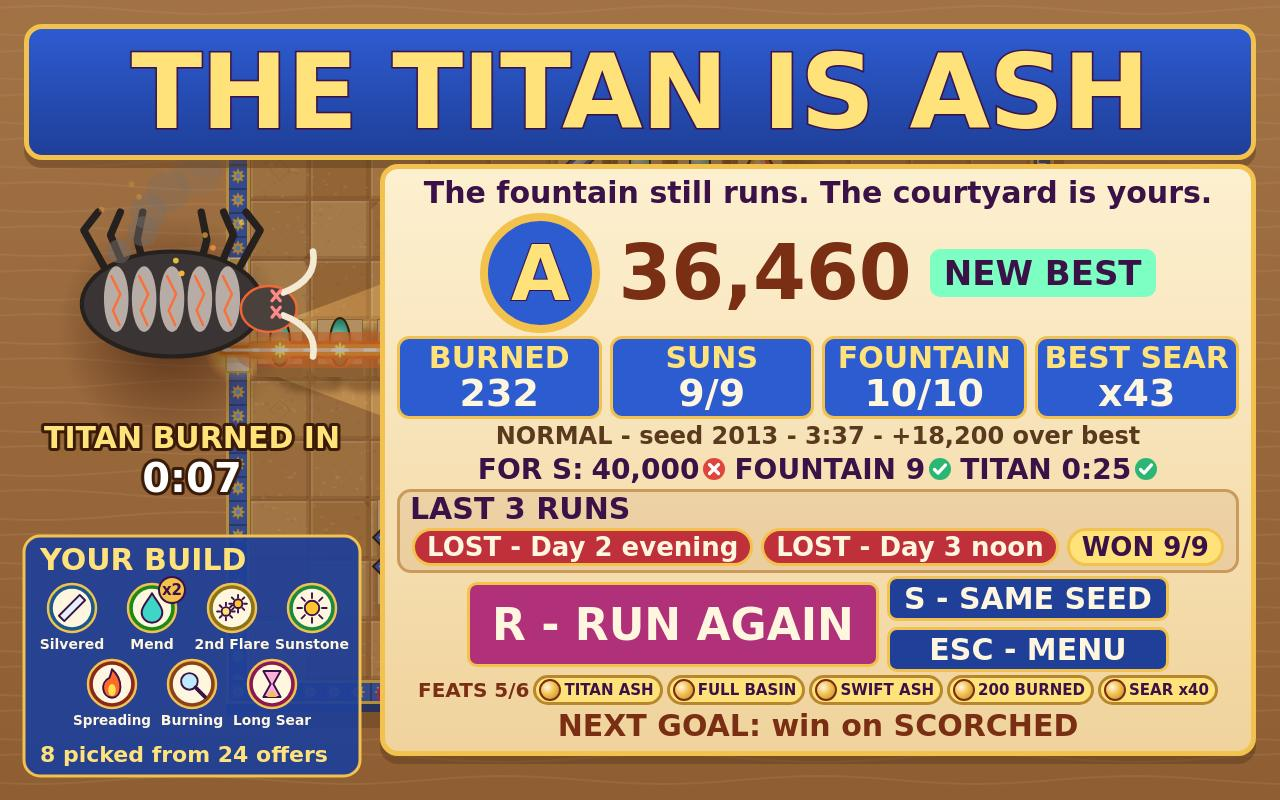
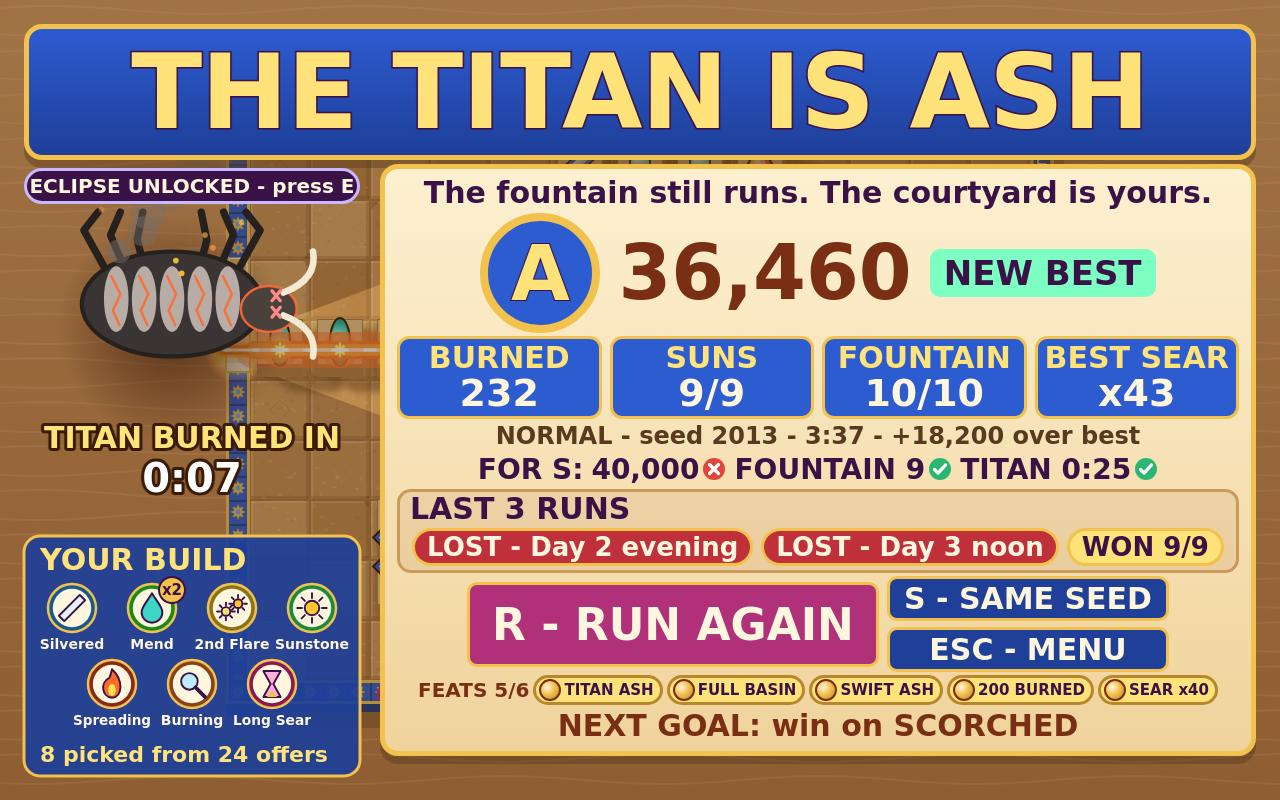
ECLIPSE endless mode: unlocked by a win, E starts it; after sun 9 the suns go on with a config formula (sun 7-9 swarms growing), best depth saved; title line and results unlock pill; truth-checked and playtested

Changed region(s): [[0.0, 0.1875, 0.2812, 0.2812]]

diff --git a/game/src/ui/menus.js b/game/src/ui/menus.js
@@ -7,7 +7,7 @@ import { sunApertureFor } from '../sun.js';
 import { waveRoster } from '../waves.js';
 import { rankFor, rankLadder, runLine } from '../combat.js';
 import { runSummary } from '../sim.js';
-import { loadFeats } from '../save.js';
+import { loadEclipse, loadFeats } from '../save.js';
 import { draftContext, draftHeal, draftHint, historyChip, nextGoal, titleRules } from '../announce.js';
 import { drawCharmGlyph } from '../render/charms.js';
 import { drawHowtoPicture } from '../render/howto.js';
@@ -63,6 +63,9 @@ export function showTitle(menus, bestFor, selected) {
   }).join('');
   el('rule-scope').textContent = SCOPE_LINE;
   el('feats-count').textContent = `FEATS ${loadFeats().length}/${FEATS.length}`;
+  const ecl = loadEclipse();
+  el('eclipse-line').textContent = !ecl.unlocked ? 'ECLIPSE (endless) - unlocked after a win' : ecl.best > 0 ? `E - ECLIPSE (endless) best: ${NAMES.sun} ${ecl.best}` : 'E - ECLIPSE (endless) unlocked - not played yet';
+  el('eclipse-line').classList.toggle('locked', !ecl.unlocked);
   const best = bestFor(selected);
   el('title-best').textContent = best.played ? `BEST ${best.score.toLocaleString('en-US')}` : 'NO BEST YET';
   // The rules table: icon, gold tag, one line per rule (announce.titleRules, numbers from config).
@@ -173,12 +176,14 @@ export function showResults(menus, run, record, history) {
   fitHeading(title, 104, 1180);
   el('results-sub').textContent = won
     ? `The ${NAMES.fountainShort.toLowerCase()} still runs. The courtyard is yours.`
-    : `Fell on Day ${run.aperture.day} ${run.aperture.phase.name.toLowerCase()} - ${run.stats.wavesCleared}/${WAVE_COUNT} ${NAMES.suns.toLowerCase()}`;
+    : run.mode === 'eclipse'
+      ? `Fell on Day ${run.aperture.day} ${run.aperture.phase.name.toLowerCase()} - ECLIPSE: ${run.stats.wavesCleared} ${NAMES.suns.toLowerCase()} held`
+      : `Fell on Day ${run.aperture.day} ${run.aperture.phase.name.toLowerCase()} - ${run.stats.wavesCleared}/${WAVE_COUNT} ${NAMES.suns.toLowerCase()}`;
   const rank = rankFor(run);
   el('results-score').innerHTML = `<span class="rank rank-${rank}">${rank}</span>${run.score.toLocaleString('en-US')}${record.isBest ? '<em>NEW BEST</em>' : ''}`;
   const tiles = [
     ['BURNED', run.stats.kills],
-    [NAMES.suns, `${run.stats.wavesCleared}/${WAVE_COUNT}`],
+    [NAMES.suns, run.mode === 'eclipse' ? `${run.stats.wavesCleared}` : `${run.stats.wavesCleared}/${WAVE_COUNT}`],
     [NAMES.fountainShort, `${run.shrineHp}/${run.shrineMax}`],
     [`BEST ${NAMES.combo}`, `x${run.chain.best}`],
   ];
@@ -198,6 +203,9 @@ export function showResults(menus, run, record, history) {
   // FEATS this run earned, as gold medals (config FEATS, tested on the finished run).
   const earned = runSummary(run).feats;
   el('results-next').textContent = nextGoal(run);
+  // A won campaign unlocks ECLIPSE (endless): say so and how to start it.
+  el('results-eclipse').textContent = won ? 'ECLIPSE UNLOCKED - press E' : '';
+  el('results-eclipse').classList.toggle('hidden', !won);
   el('results-feats').classList.toggle('many', earned.length > 4);
   el('results-feats').innerHTML = `<b>FEATS ${earned.length}/${FEATS.length}</b>` + earned.map((id) => `<span class="feat"><i></i>${escapeHtml(FEATS.find((f) => f.id === id).name)}</span>`).join('');
 }

diff --git a/game/src/main.js b/game/src/main.js
@@ -3,7 +3,7 @@
 import { DIFFICULTIES, DIFFICULTY_ORDER, DT, PIECES, PIECE_ORDER } from './config.js';
 import { createRun, pieceCost, pieceUnlocked, runSummary, stepSim } from './sim.js';
 import { playSfx, playSizzle, setBeamHum, setVolume, unlockAudio, updateMusic } from './audio.js';
-import { loadBest, loadHistory, loadSettings, recordRun, saveSettings } from './save.js';
+import { loadBest, loadEclipse, loadHistory, loadSettings, recordRun, saveSettings } from './save.js';
 import { drawFrame } from './render/scene.js';
 import { createFx, fxFromEvent, updateFx } from './render/fx.js';
 import { hotbarHit, hudButtonHit } from './render/hud.js';
@@ -57,8 +57,10 @@ function fitStage() {
   ctx.setTransform(canvas.width / VIEW_W, 0, 0, canvas.height / VIEW_H, 0, 0);
 }
 
-function startRun(seed = freshSeed(), difficulty = app.settings.difficulty) {
-  app.run = createRun(seed, difficulty);
+/** mode 'eclipse' starts the endless run (only once a win has unlocked it). */
+function startRun(seed = freshSeed(), difficulty = app.settings.difficulty, mode = 'campaign') {
+  if (mode === 'eclipse' && !loadEclipse().unlocked) return;
+  app.run = createRun(seed, difficulty, mode);
   app.screen = 'play';
   app.paused = false;
   app.fx = createFx();
@@ -146,8 +148,9 @@ function handleUiAction(action, arg) {
     case 'menu': goTitle(); break;
     case 'pick': order({ type: 'pick', index: Number(arg) }); break;
     case 'reroll': order({ type: 'reroll' }); break;
-    case 'runAgain': startRun(undefined, run?.difficultyId); break;
-    case 'sameSeed': startRun(run.seed, run.difficultyId); break;
+    case 'runAgain': startRun(undefined, run?.difficultyId, run?.mode); break;
+    case 'sameSeed': startRun(run.seed, run.difficultyId, run.mode); break;
+    case 'eclipse': startRun(undefined, run?.difficultyId ?? app.settings.difficulty, 'eclipse'); break;
     default: break;
   }
 }
@@ -170,6 +173,7 @@ function handleKeyInPlay(code) {
   if (over) {
     if (code === 'KeyR') restartRun(input.intents, false);
     else if (code === 'KeyS') restartRun(input.intents, true);
+    else if (code === 'KeyE') startRun(undefined, app.run.difficultyId, 'eclipse');
     return;
   }
   if (code === 'KeyR') {
@@ -232,6 +236,7 @@ function handleIntent(it) {
   } else if (it.kind === 'key') {
     // Title: ENTER (or SPACE) starts the selected difficulty; the arrows move the selection.
     if (it.code === 'Enter' || it.code === 'NumpadEnter' || it.code === 'Space') startRun();
+    else if (it.code === 'KeyE' && app.screen === 'title') startRun(undefined, app.settings.difficulty, 'eclipse');
     else if ((it.code === 'ArrowUp' || it.code === 'ArrowDown') && app.screen === 'title') {
       const i = DIFFICULTY_ORDER.indexOf(app.settings.difficulty);
       const step = it.code === 'ArrowDown' ? 1 : DIFFICULTY_ORDER.length - 1;

diff --git a/game/src/sim.js b/game/src/sim.js
@@ -13,13 +13,15 @@ import { buildFlowField } from './pathing.js';
 import { createGrid, pieceAt, placementCheck, setPiece } from './grid.js';
 import { createRng } from './rng.js';
 
-export function createRun(seed, difficultyId = 'normal') {
+/** mode: 'campaign' (win by holding 9 suns) or 'eclipse' (endless: the suns go on until the fountain runs dry). */
+export function createRun(seed, difficultyId = 'normal', mode = 'campaign') {
   const diff = DIFFICULTIES[difficultyId];
   const grid = createGrid();
   const run = {
     seed,
     difficultyId,
     diff,
+    mode,
     rng: createRng(seed ^ 0x5eed),
     tick: 0,
     time: 0,
@@ -198,7 +200,7 @@ function finishWave(run) {
   run.chain.count = 0;
   run.chain.timer = 0;
   emit(run, { type: 'waveClear', wave: run.waveIndex, bonus });
-  if (run.waveIndex === WAVE_COUNT - 1) {
+  if (run.waveIndex === WAVE_COUNT - 1 && run.mode !== 'eclipse') {
     endRun(run, 'won');
     return;
   }
@@ -221,7 +223,7 @@ function stepWave(run) {
   run.waveTime += DT;
   while (run.spawnCursor < run.schedule.length && run.schedule[run.spawnCursor].t <= run.waveTime) {
     const s = run.schedule[run.spawnCursor++];
-    spawnEnemy(run, s.type, s.gate);
+    spawnEnemy(run, s.type, s.gate, s.hpMul);
     if (s.type === 'titan') emit(run, { type: 'boss' });
   }
   moveEnemies(run, DT);
@@ -247,7 +249,7 @@ export function stepSim(run, orders) {
 /** What the save keeps of a finished run (also shown in the results' RUN HISTORY). */
 export function runSummary(run) {
   const feats = FEATS.filter((f) => f.test(run)).map((f) => f.id);
-  return { difficultyId: run.difficultyId, outcome: run.phase, score: run.score, suns: run.stats.wavesCleared, day: run.aperture.day, phase: run.aperture.phase.name, feats };
+  return { difficultyId: run.difficultyId, mode: run.mode, outcome: run.phase, score: run.score, suns: run.stats.wavesCleared, day: run.aperture.day, phase: run.aperture.phase.name, feats };
 }
 
 /** Waves still to spawn plus beetles on the board, for the HUD's remaining bar. */

diff --git a/game/src/waves.js b/game/src/waves.js
@@ -1,14 +1,24 @@
 // Wave makeup: turn the WAVES table into a timed spawn list for one wave and difficulty,
 // plus the roster shown in the INCOMING panel and the draft's next-wave preview.
-import { ENEMY_ORDER, WAVES } from './config.js';
+import { ECLIPSE, ENEMY_ORDER, WAVES } from './config.js';
 
-/** Sorted spawns [{ t, type, gate }] for a wave (0-based). */
+/** The wave table for a sun: the campaign's, or past sun 9 (ECLIPSE) a grown copy of sun 7, 8 or 9 (no Titan). */
+export function waveGroups(waveIndex) {
+  if (waveIndex < WAVES.length) return { groups: WAVES[waveIndex], hpMul: 1 };
+  const depth = waveIndex + 1 - WAVES.length;
+  const base = WAVES[ECLIPSE.rosters[(depth - 1) % ECLIPSE.rosters.length]].filter((g) => g[0] !== 'titan');
+  const grow = 1 + ECLIPSE.countGrowth * depth;
+  return { groups: base.map(([type, count, ...rest]) => [type, Math.round(count * grow), ...rest]), hpMul: 1 + ECLIPSE.hpGrowth * depth };
+}
+
+/** Sorted spawns [{ t, type, gate, hpMul }] for a wave (0-based). */
 export function buildWaveSchedule(waveIndex, diff) {
   const spawns = [];
-  for (const [type, count, gate, first, interval] of WAVES[waveIndex]) {
+  const { groups, hpMul } = waveGroups(waveIndex);
+  for (const [type, count, gate, first, interval] of groups) {
     const n = type === 'titan' ? count : Math.max(1, Math.round(count * diff.countMul));
     const gap = interval * (count / n);
-    for (let k = 0; k < n; k++) spawns.push({ t: first + k * gap, type, gate: gate === 2 ? k % 2 : gate });
+    for (let k = 0; k < n; k++) spawns.push({ t: first + k * gap, type, gate: gate === 2 ? k % 2 : gate, hpMul });
   }
   spawns.sort((a, b) => a.t - b.t || ENEMY_ORDER.indexOf(a.type) - ENEMY_ORDER.indexOf(b.type));
   return spawns;

diff --git a/game/src/render/hud.js b/game/src/render/hud.js
@@ -268,7 +268,8 @@ function drawSunBar(ctx, run) {
   const w = BOARD_W + WALL * 2 - 8;
   panel(ctx, x, 4, w, 58);
   const trackX = x + w - 26 - 8 * 36;
-  fitLine(ctx, `DAY ${day} - ${phase.name} - ${NAMES.sun} ${run.waveIndex + 1}/${WAVE_COUNT}`, x + 16, 44, trackX - x - 46, 32, INK);
+  const sunText = run.mode === 'eclipse' ? `ECLIPSE ${NAMES.sun} ${run.waveIndex + 1}` : `${NAMES.sun} ${run.waveIndex + 1}/${WAVE_COUNT}`;
+  fitLine(ctx, [`DAY ${day} - ${phase.name} - ${sunText}`, `DAY ${day} - ${sunText}`], x + 16, 44, trackX - x - 46, 32, INK);
   drawSunTrack(ctx, trackX, 33, 36, 13, run.stats.wavesCleared, run.waveIndex);
 }
 
@@ -469,10 +470,10 @@ function drawWinLoseFrieze(ctx, run) {
     ctx.lineWidth = 2;
     ctx.strokeRect(a + 1, 69, b - a - 2, 36);
   }
-  if (!notch) fitLine(ctx, `${win} - ${lose}`, 640, 99, w - 24, 32, '#FFF2A8', 'center');
+  const loses = [lose, lose.replace('the ', ''), lose.replace('the ', '').replace(' runs', '')];
+  if (!notch) fitLine(ctx, loses.map((l) => `${win} - ${l}`), 640, 99, w - 24, [32, 28, 26], '#FFF2A8', 'center');
   else {
     const [[l0, l1], [r0, r1]] = segs;
-    const loses = [lose, lose.replace('the ', ''), lose.replace('the ', '').replace(' runs', '')];
     const fits = (str, room) => ctx.measureText(str).width * 0.92 <= room - 20;
     let pick = null;
     search: for (const size of [32, 28, 26, 24]) {

diff --git a/game/src/announce.js b/game/src/announce.js
@@ -70,6 +70,7 @@ export function titleRules() {
 /** The win and lose rules for the top banner, with the real count of suns still to hold (current included). */
 export function winLoseParts(run) {
   const left = WAVE_COUNT - run.stats.wavesCleared;
+  if (run.mode === 'eclipse') return { win: `ECLIPSE: ${run.stats.wavesCleared} suns held`, lose: `LOSE: the ${NAMES.fountainShort.toLowerCase()} runs dry` };
   return {
     win: `WIN: ${left} more ${left === 1 ? NAMES.sun.toLowerCase() : NAMES.suns.toLowerCase()}`,
     lose: `LOSE: the ${NAMES.fountainShort.toLowerCase()} runs dry`,
@@ -120,6 +121,7 @@ export function historyChip(h) {
 
 /** What to aim for next, from a finished run's outcome and difficulty (the results' NEXT GOAL line). */
 export function nextGoal(run) {
+  if (run.mode === 'eclipse') return `NEXT GOAL: hold ${run.stats.wavesCleared + 1} eclipse ${NAMES.suns.toLowerCase()}`;
   if (run.phase !== 'won') return `NEXT GOAL: hold ${run.stats.wavesCleared + 1} ${NAMES.suns.toLowerCase()}`;
   const harder = DIFFICULTY_ORDER[DIFFICULTY_ORDER.indexOf(run.difficultyId) + 1];
   return harder ? `NEXT GOAL: win on ${DIFFICULTIES[harder].name}` : `NEXT GOAL: beat ${run.score.toLocaleString('en-US')}`;

diff --git a/game/style.css b/game/style.css
@@ -36,6 +36,9 @@ button.big:hover { background: #cf3f93; }
 .diff b { font-size: 40px; line-height: 1.1; }
 .diff small { font: 800 20px system-ui, sans-serif; letter-spacing: 0; line-height: 1.1; }
 .diff.on { background: #f2c14e; color: #3b1247; border-color: #fff6df; }
+.eclipse-line { margin: 0; font: 900 24px system-ui, sans-serif; color: #c9b8ff; white-space: nowrap; }
+.eclipse-line.locked { color: rgba(255, 246, 223, 0.6); }
+.eclipse-pill { position: absolute; left: 24px; top: 168px; width: 336px; box-sizing: border-box; margin: 0; padding: 3px 0; text-align: center; white-space: nowrap; font: 900 20px system-ui, sans-serif; color: #fff6df; background: #3b1247; border: 3px solid #c9b8ff; border-radius: 18px; }
 .title-links { display: flex; justify-content: center; gap: 12px; }
 .title-links button { font-size: 26px; padding: 2px 18px; }
 .keycaps { position: absolute; left: 24px; right: 24px; bottom: 10px; display: flex; justify-content: center; gap: 26px; padding: 2px 0; font: 900 36px system-ui, sans-serif; color: #fff6df; background: rgba(31, 63, 153, 0.8); border: 4px solid #f2c14e; border-radius: 16px; }

diff --git a/game/src/save.js b/game/src/save.js
@@ -37,9 +37,17 @@ export function recordRun(summary) {
   const isBest = summary.score > old.score;
   data.best[summary.difficultyId] = { score: Math.max(old.score, summary.score), waves: Math.max(old.waves, summary.suns) };
   data.history = [...(data.history ?? []), summary].slice(-HISTORY_KEEP);
+  if (summary.outcome === 'won') data.eclipseUnlocked = true;
+  if (summary.mode === 'eclipse') data.eclipseBest = Math.max(data.eclipseBest ?? 0, summary.suns);
   data.feats = [...new Set([...(data.feats ?? []), ...(summary.feats ?? [])])];
   writeSave(data);
   return { isBest, previousBest: old.score };
+}
+
+/** ECLIPSE: { unlocked (any win, any difficulty), best (most suns held in an eclipse run, 0 if none) }. */
+export function loadEclipse() {
+  const data = readSave();
+  return { unlocked: !!data.eclipseUnlocked || (data.history ?? []).some((h) => h.outcome === 'won'), best: data.eclipseBest ?? 0 };
 }
 
 /** Every FEAT id any finished run has earned. */

diff --git a/game/index.html b/game/index.html
@@ -30,6 +30,7 @@
       <div class="play-row"><button id="play-button" class="big" data-action="play">PLAY</button><span id="title-best" class="featcount"></span><span id="feats-count" class="featcount"></span></div>
       <p id="start-hint" class="start-hint">CLICK PLAY OR PRESS ENTER</p>
       <div id="difficulty-picker" class="picker"></div>
+      <p id="eclipse-line" class="eclipse-line"></p>
       <div class="title-links">
         <button id="howto-button" data-action="howto">HOW TO PLAY</button>
         <button id="options-button" data-action="options">OPTIONS</button>
@@ -90,6 +91,7 @@
 
   <section id="results-screen" class="overlay hidden">
     <div class="results-head"><h2 id="results-title"></h2></div>
+    <p id="results-eclipse" class="eclipse-pill hidden"></p>
     <div class="sheet results">
       <p id="results-sub" class="sub"></p>
       <div id="results-score" class="score"></div>

diff --git a/game/src/config.js b/game/src/config.js
@@ -158,6 +158,13 @@ export const UPGRADES = {
   lens: { multAdd: [0, 0.3, 0.6] },
   prism: { shareAdd: [0, 0.1, 0.2] },
 };
+/**
+ * ECLIPSE (endless, unlocked by winning any difficulty): after sun 9 the suns go on. Eclipse sun n (n >= 10)
+ * sends the swarm of campaign sun 7, 8 or 9 in turn (no Titan), with
+ * counts x (1 + countGrowth * (n - 9)) and beetle HP x (1 + hpGrowth * (n - 9)).
+ */
+export const ECLIPSE = { rosters: [6, 7, 8], countGrowth: 0.15, hpGrowth: 0.12 };
+
 export const ECONOMY = { waveQuartz: 5, waveQuartzPerWave: 1, rerollCost: 3, oldPieceRefund: 0.5 };
 export const SCORING = { perShrineHp: 50, waveClear: 100, chainWindow: 1, chainMaxMult: 5 };
 /** A won run's rank: the best tier whose score, fountain left and Titan burn time it all meets (else C). */

diff --git a/game/src/testhook.js b/game/src/testhook.js
@@ -125,8 +125,8 @@ function resultsText() {
 export function installTestHook(app, api) {
   app.manual = true;
   window.__test = {
-    start(seed, difficulty) {
-      api.startRun(seed, difficulty);
+    start(seed, difficulty, mode = 'campaign') {
+      api.startRun(seed, difficulty, mode);
     },
     advance(ticks) {
       for (let i = 0; i < ticks; i++) api.tick();
@@ -205,6 +205,7 @@ export function installTestHook(app, api) {
         phase: run.phase,
         seed: run.seed,
         difficulty: run.diff.name,
+        mode: run.mode,
         day: run.aperture.day,
         sun: run.aperture.phase.name,
         wall: run.aperture.phase.wallName,

diff --git a/game/src/enemies.js b/game/src/enemies.js
@@ -4,10 +4,10 @@
 import { BOARD, DX, DY, ENEMIES, TITAN_CARAPACE, VEER_DAZZLE, VEER_LURE, TINT_EFFECTS } from './config.js';
 import { flowDirectionAt } from './pathing.js';
 
-export function spawnEnemy(run, type, gateIndex) {
+export function spawnEnemy(run, type, gateIndex, hpMul = 1) {
   const def = ENEMIES[type];
   const gate = run.grid.gates[gateIndex % run.grid.gates.length];
-  const hp = Math.round(def.hp * run.diff.hpMul);
+  const hp = Math.round(def.hp * run.diff.hpMul * hpMul);
   const enemy = {
     id: run.nextEnemyId++,
     type,
